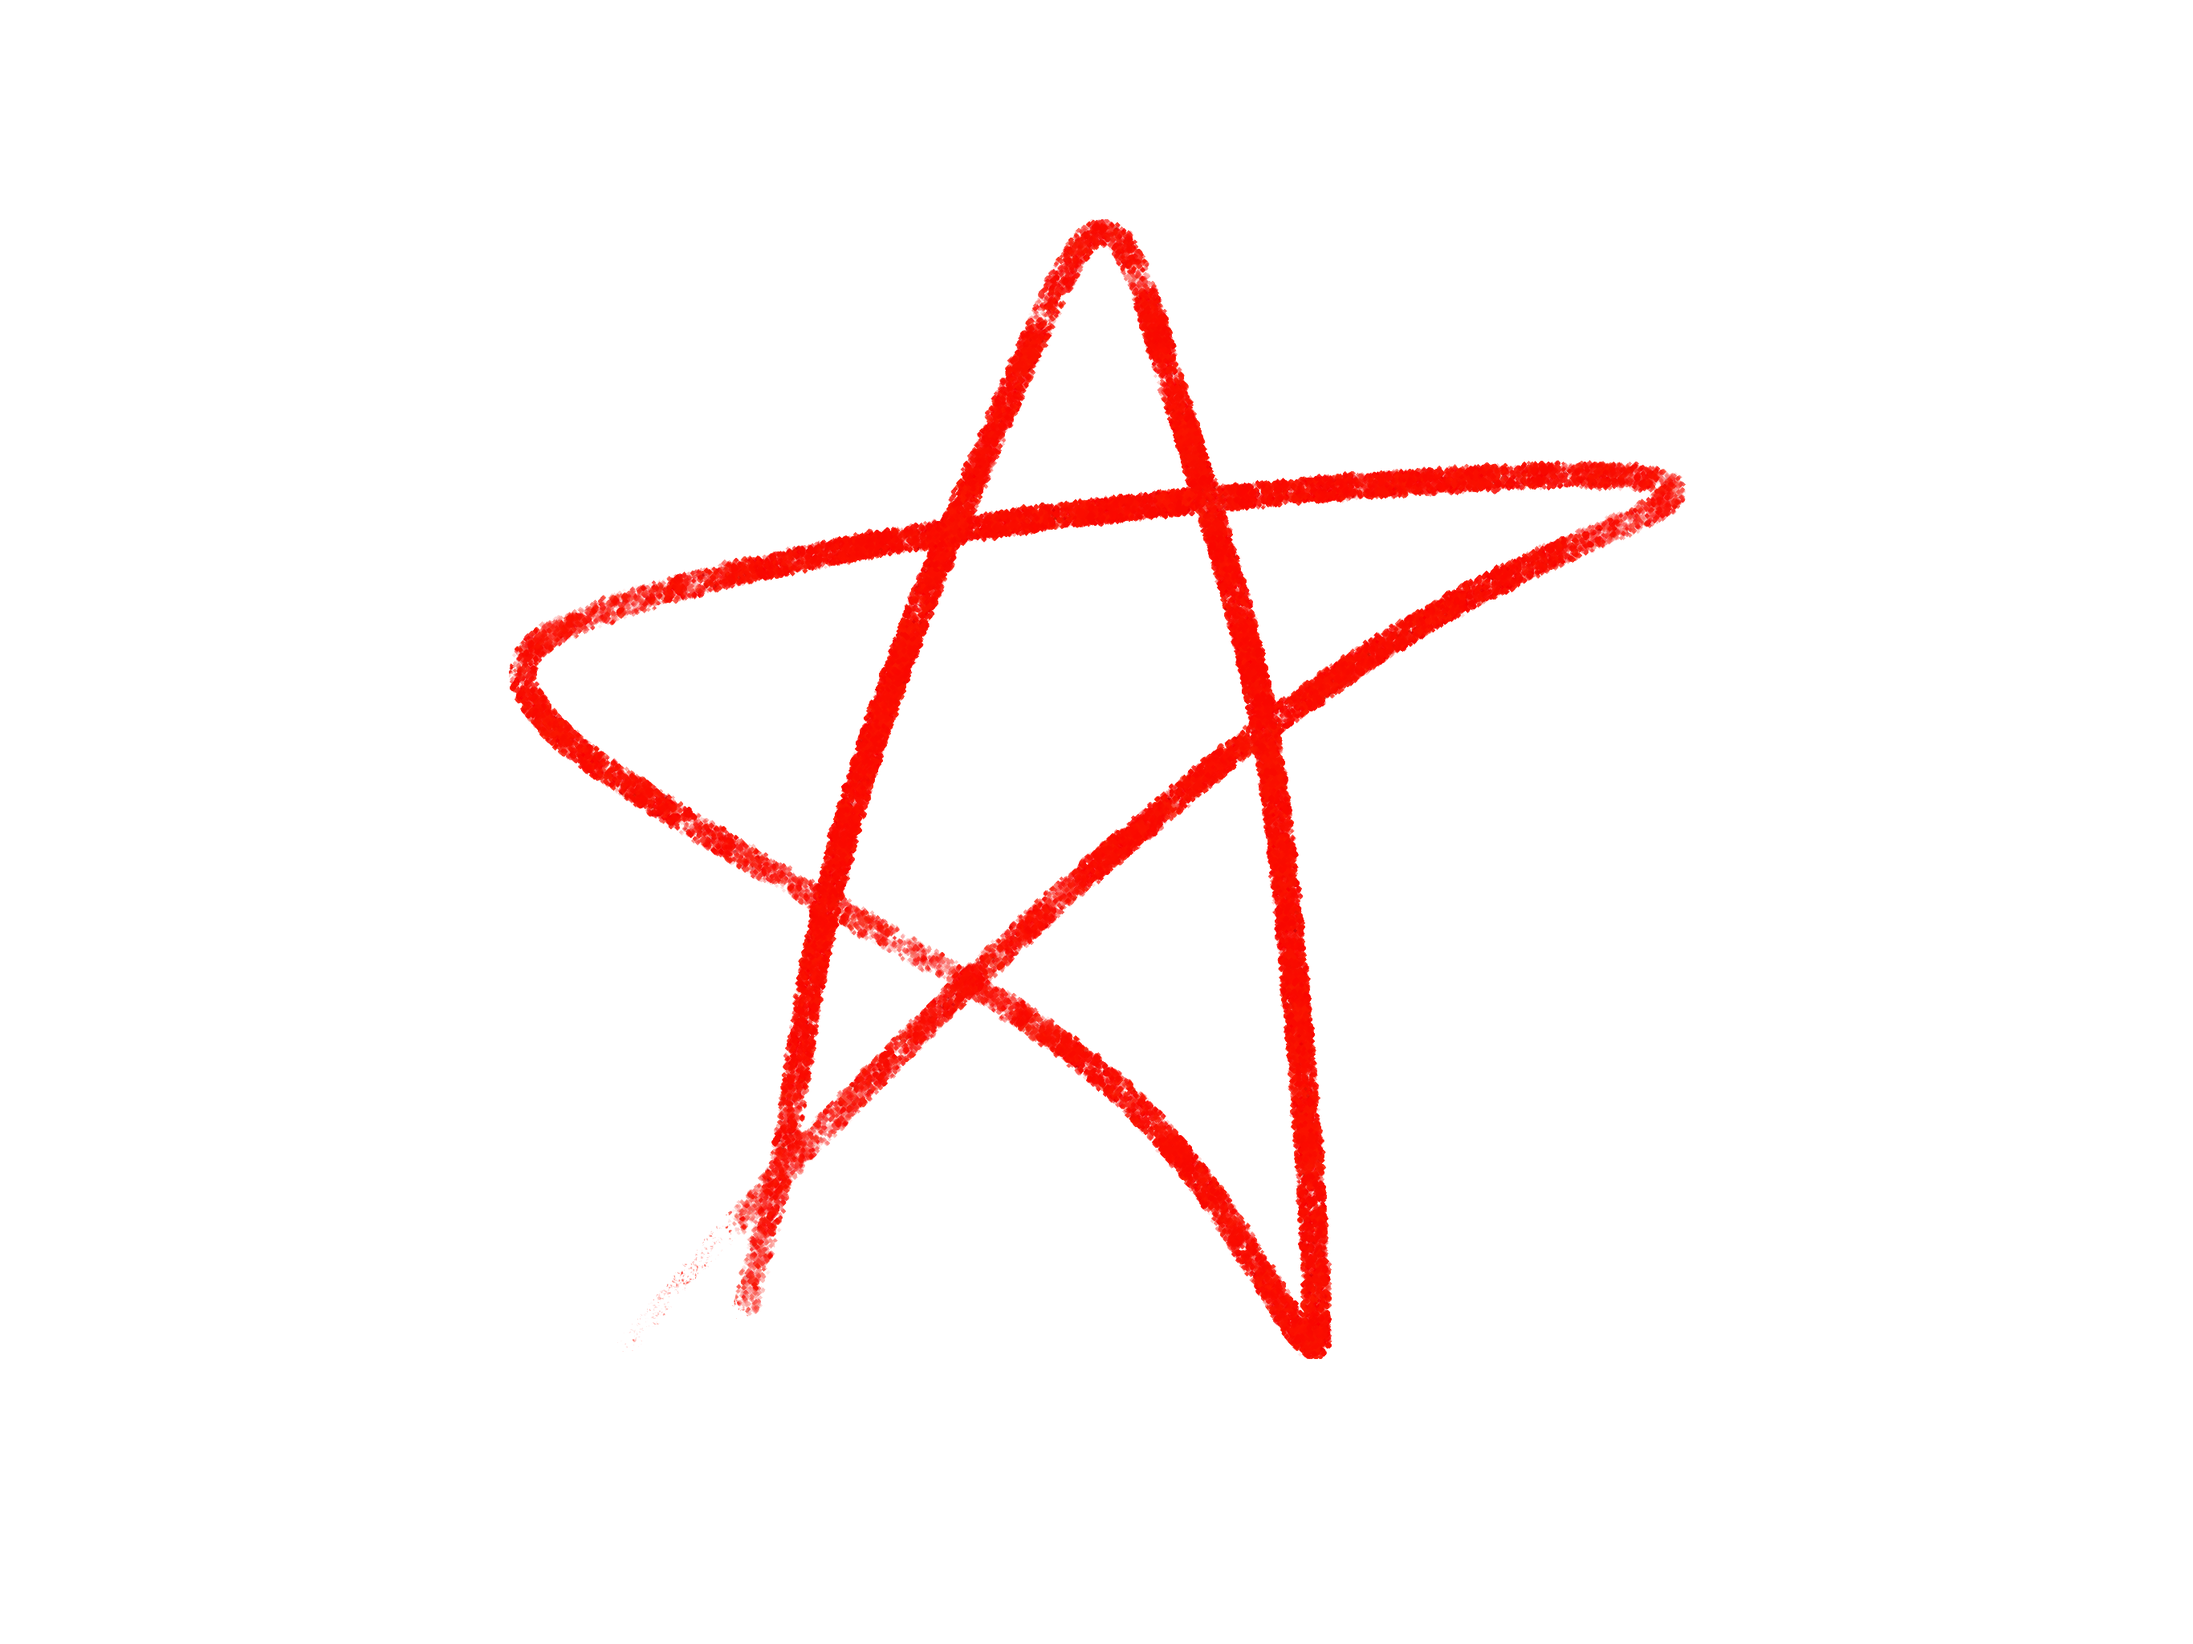
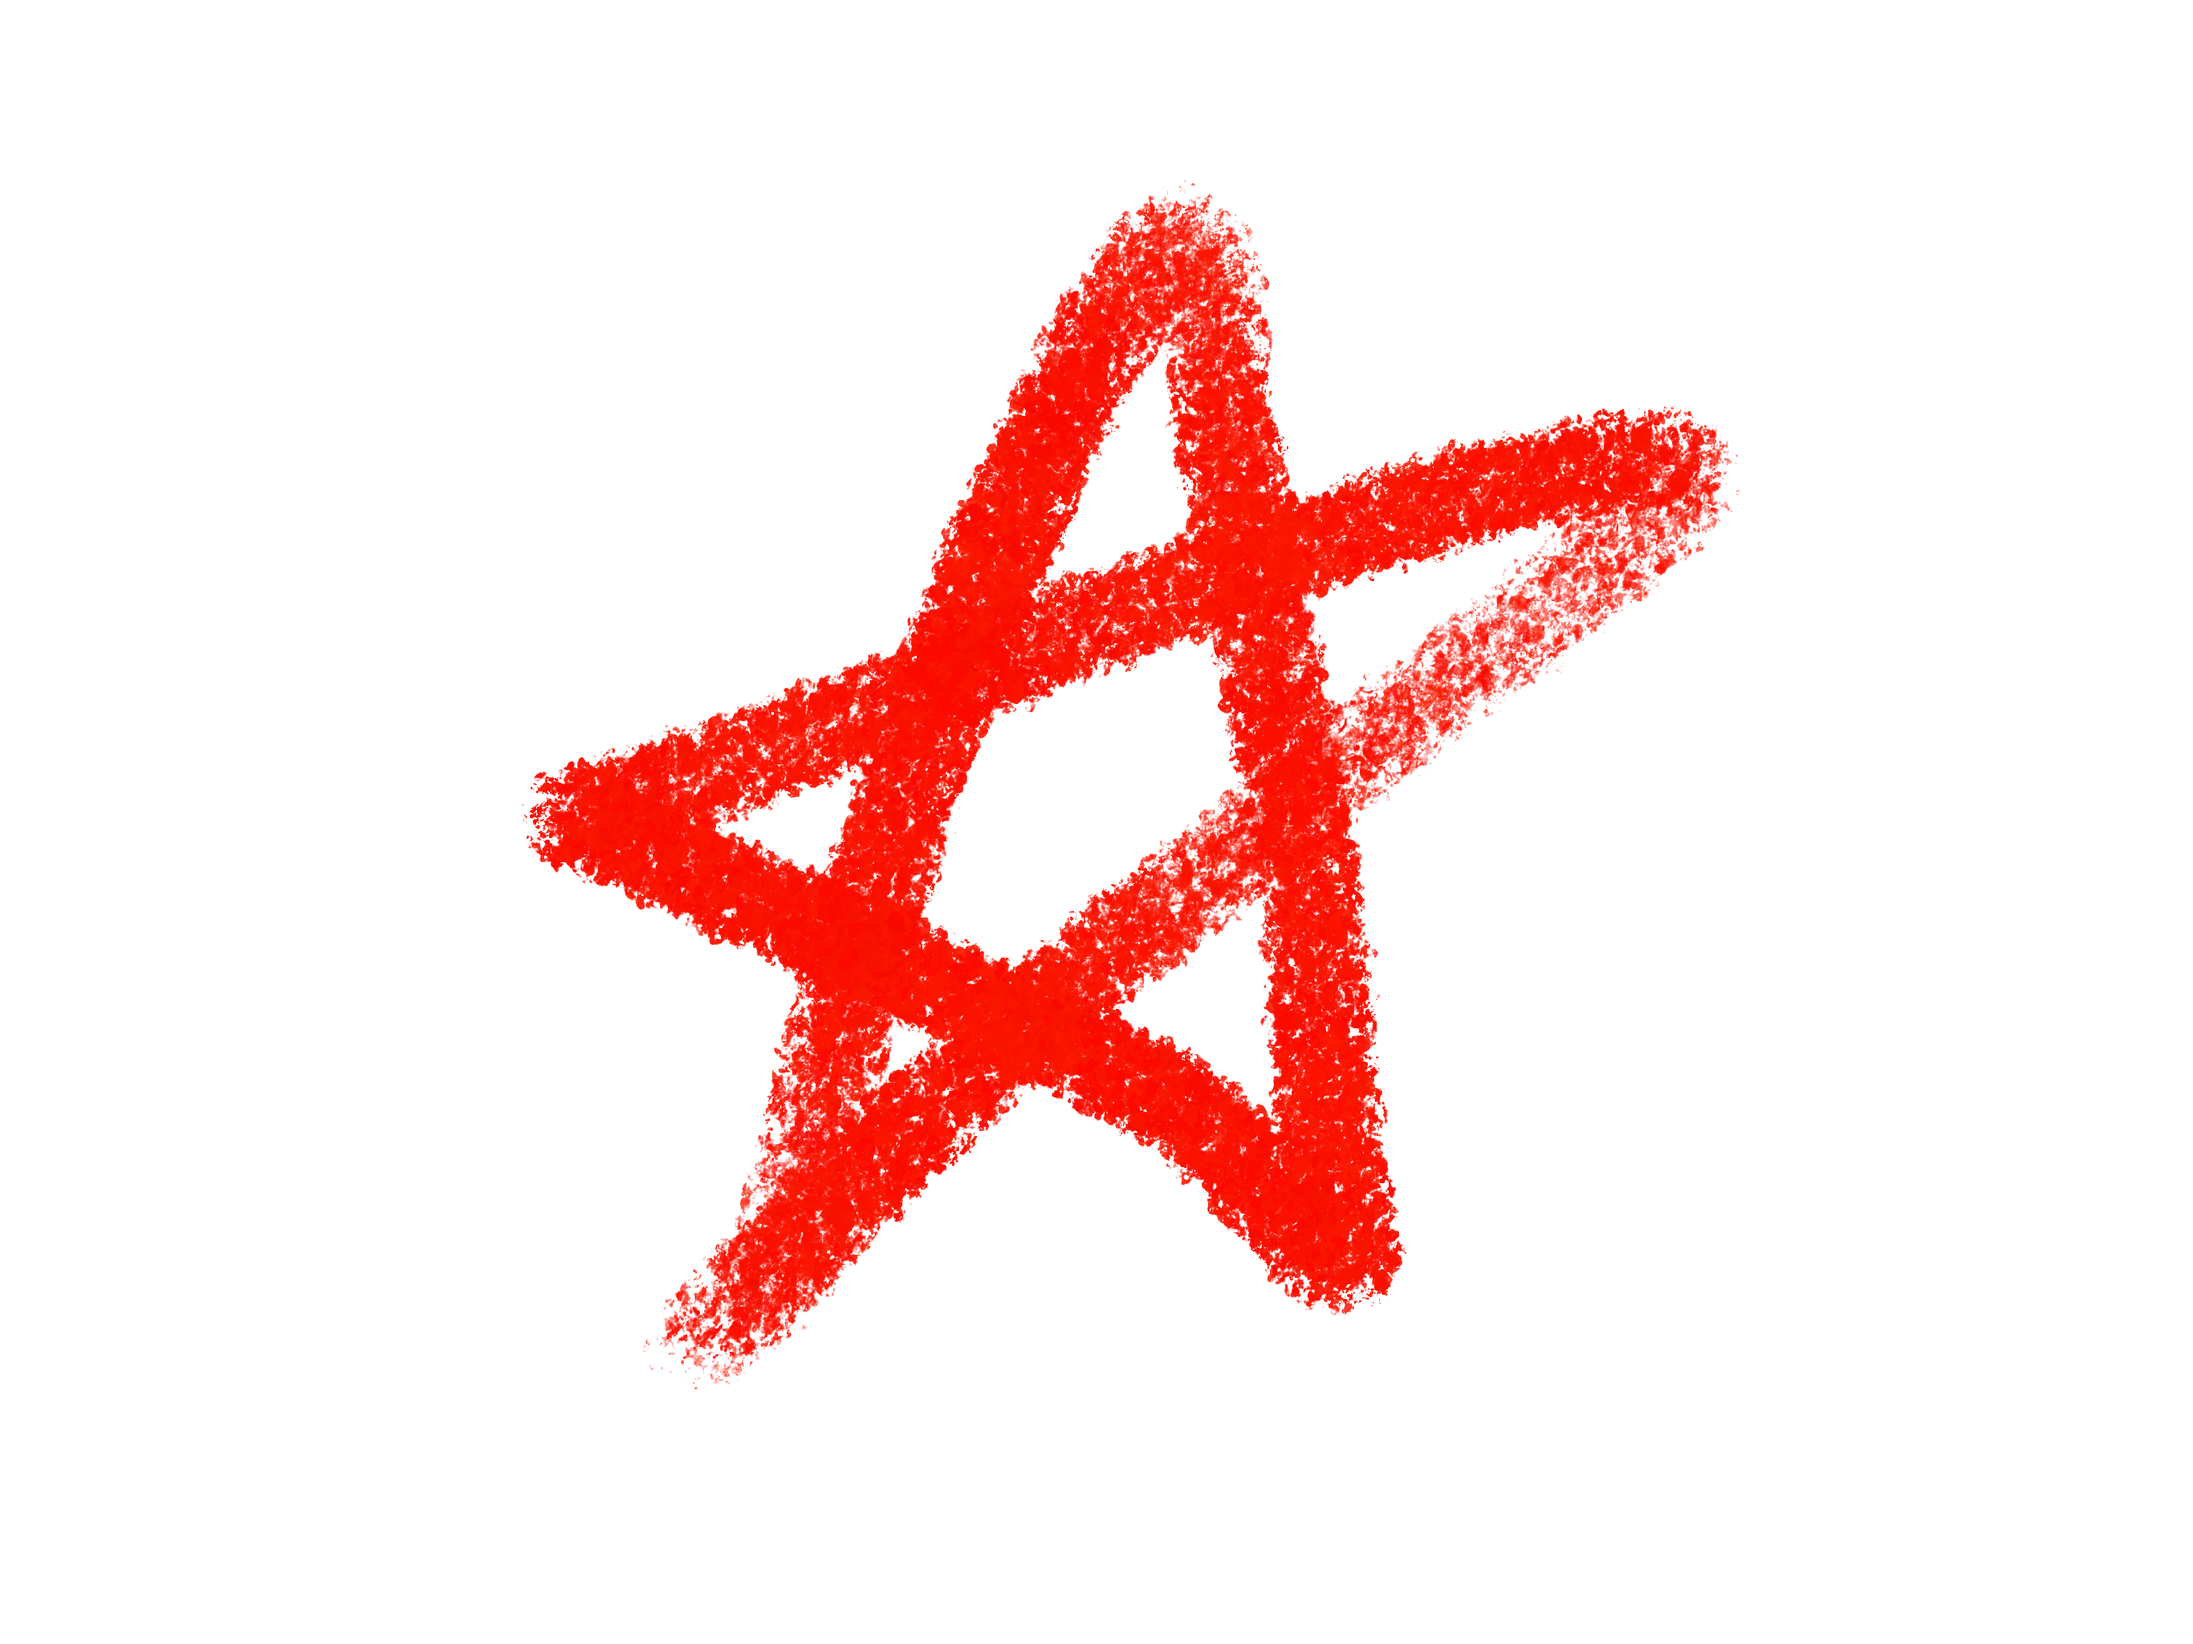
fix:에셋 정리 및 욕설 처리 체크 표시 수정

Changed region(s): [[0.2178, 0.125, 0.8089, 0.8438]]

diff --git a/src/utils/diaryImage.ts b/src/utils/diaryImage.ts
@@ -22,6 +22,10 @@ import {
 import { buildHighlightSegments } from "./highlight";
 import { ImageProcessError, loadImageFromDataUrl } from "./image";
 import { buildProfanityCheckRuns } from "./profanityCheck";
+import {
+  pickProfanityMarkAsset,
+  PROFANITY_MARK_URLS,
+} from "./profanityMarks";
 import { STAMP_IMAGE_URLS } from "../constants/stamp";
 import {
   buildStarPlacements,
@@ -267,29 +271,6 @@ function buildCorrectionRuns(cells: DiaryCell[]): CorrectionRun[] {
   return runs;
 }
 
-function drawProfanityCheck(
-  context: CanvasRenderingContext2D,
-  x: number,
-  y: number,
-  width: number,
-  height: number,
-): void {
-  context.save();
-  context.beginPath();
-  context.moveTo(x + width * 0.08, y + height * 0.48);
-  context.lineTo(x + width * 0.32, y + height * 0.68);
-  context.lineTo(x + width * 0.92, y + height * 0.2);
-  context.strokeStyle = "#c33b37";
-  context.lineWidth = Math.max(2, height * 0.055);
-  context.lineCap = "round";
-  context.lineJoin = "round";
-  context.shadowColor = "rgba(178, 43, 39, 0.28)";
-  context.shadowBlur = 1;
-  context.shadowOffsetY = 1;
-  context.stroke();
-  context.restore();
-}
-
 function drawContent(
   context: CanvasRenderingContext2D,
   content: string,
@@ -394,8 +375,13 @@ function drawContent(
     COLUMN_COUNT,
     COLUMN_COUNT * layout.contentRows,
   )) {
-    drawProfanityCheck(
-      context,
+    const checkImage = markImages.get(
+      pickProfanityMarkAsset(run.row, run.startColumn, run.length),
+    );
+    if (checkImage === undefined) continue;
+
+    context.drawImage(
+      checkImage,
       x + run.startColumn * cellWidth,
       y + run.row * cellHeight,
       run.length * cellWidth,
@@ -616,13 +602,15 @@ export async function composeDiaryImage(
   // 미리 받아두는 이유: drawContent는 동기 함수라 그리는 도중에는
   // 로드를 기다릴 수 없기 때문입니다 (번들 내 로컬 파일이라 비용은 미미).
   const markImages = new Map<string, HTMLImageElement>();
+  const markUrls = [...PROFANITY_MARK_URLS];
   if (input.analysis !== null) {
-    await Promise.all(
-      [...CORRECTION_MARK_URLS, ...STAR_MARK_URLS].map(async (url) => {
-        markImages.set(url, await loadImageFromDataUrl(url));
-      }),
-    );
+    markUrls.push(...CORRECTION_MARK_URLS, ...STAR_MARK_URLS);
   }
+  await Promise.all(
+    markUrls.map(async (url) => {
+      markImages.set(url, await loadImageFromDataUrl(url));
+    }),
+  );
 
   try {
     await Promise.all([

diff --git a/src/App.css b/src/App.css
@@ -2060,40 +2060,10 @@ html:has(.diary-content-section textarea:focus) {
   position: absolute;
   z-index: 4;
   overflow: visible;
+  background-position: center;
+  background-repeat: no-repeat;
+  background-size: 100% 100%;
   filter: drop-shadow(0 0.7px 0 rgba(178, 43, 39, 0.28));
-  transform: rotate(-3deg);
-}
-
-.diary-profanity-check::before,
-.diary-profanity-check::after {
-  position: absolute;
-  left: 9%;
-  height: clamp(1.5px, 4%, 3px);
-  border-radius: 999px;
-  background: linear-gradient(
-    90deg,
-    transparent 0%,
-    #c33b37 7%,
-    #d24b42 56%,
-    #b93431 96%,
-    transparent 100%
-  );
-  content: "";
-  opacity: 0.88;
-  transform-origin: left center;
-}
-
-.diary-profanity-check::before {
-  top: 49%;
-  width: 36%;
-  transform: rotate(39deg) skewX(3deg);
-}
-
-.diary-profanity-check::after {
-  top: 68%;
-  left: 36%;
-  width: 62%;
-  transform: rotate(-42deg) skewX(-2deg);
 }
 
 .diary-card-comment {

diff --git a/src/components/PreviewStep.tsx b/src/components/PreviewStep.tsx
@@ -32,6 +32,7 @@ import {
 import { buildHighlightSegments } from "../utils/highlight";
 import { buildStarPlacements, pickStarMarkAsset } from "../utils/starMarks";
 import { buildProfanityCheckRuns } from "../utils/profanityCheck";
+import { pickProfanityMarkAsset } from "../utils/profanityMarks";
 import { STAMP_ALT_TEXT, STAMP_IMAGE_URLS } from "../constants/stamp";
 
 interface PreviewStepProps {
@@ -263,6 +264,11 @@ function HighlightedContent({
               top: `${(run.row / rowCount) * 100}%`,
               width: `${(run.length / columnCount) * 100}%`,
               height: `${100 / rowCount}%`,
+              backgroundImage: `url("${pickProfanityMarkAsset(
+                run.row,
+                run.startColumn,
+                run.length,
+              )}")`,
             }}
           />
         ))}

diff --git a/src/utils/profanityMarks.ts b/src/utils/profanityMarks.ts
@@ -1,0 +1,17 @@
+import check1 from "../assets/handwrites/processed/check1.png";
+import check2 from "../assets/handwrites/processed/check2.png";
+
+const PROFANITY_MARKS = [check1, check2];
+
+/** Check-mark URLs that must be preloaded before the canvas export is drawn. */
+export const PROFANITY_MARK_URLS = [...PROFANITY_MARKS];
+
+export function pickProfanityMarkAsset(
+  row: number,
+  startColumn: number,
+  length: number,
+): string {
+  return PROFANITY_MARKS[
+    (row * 31 + startColumn * 7 + length) % PROFANITY_MARKS.length
+  ];
+}
